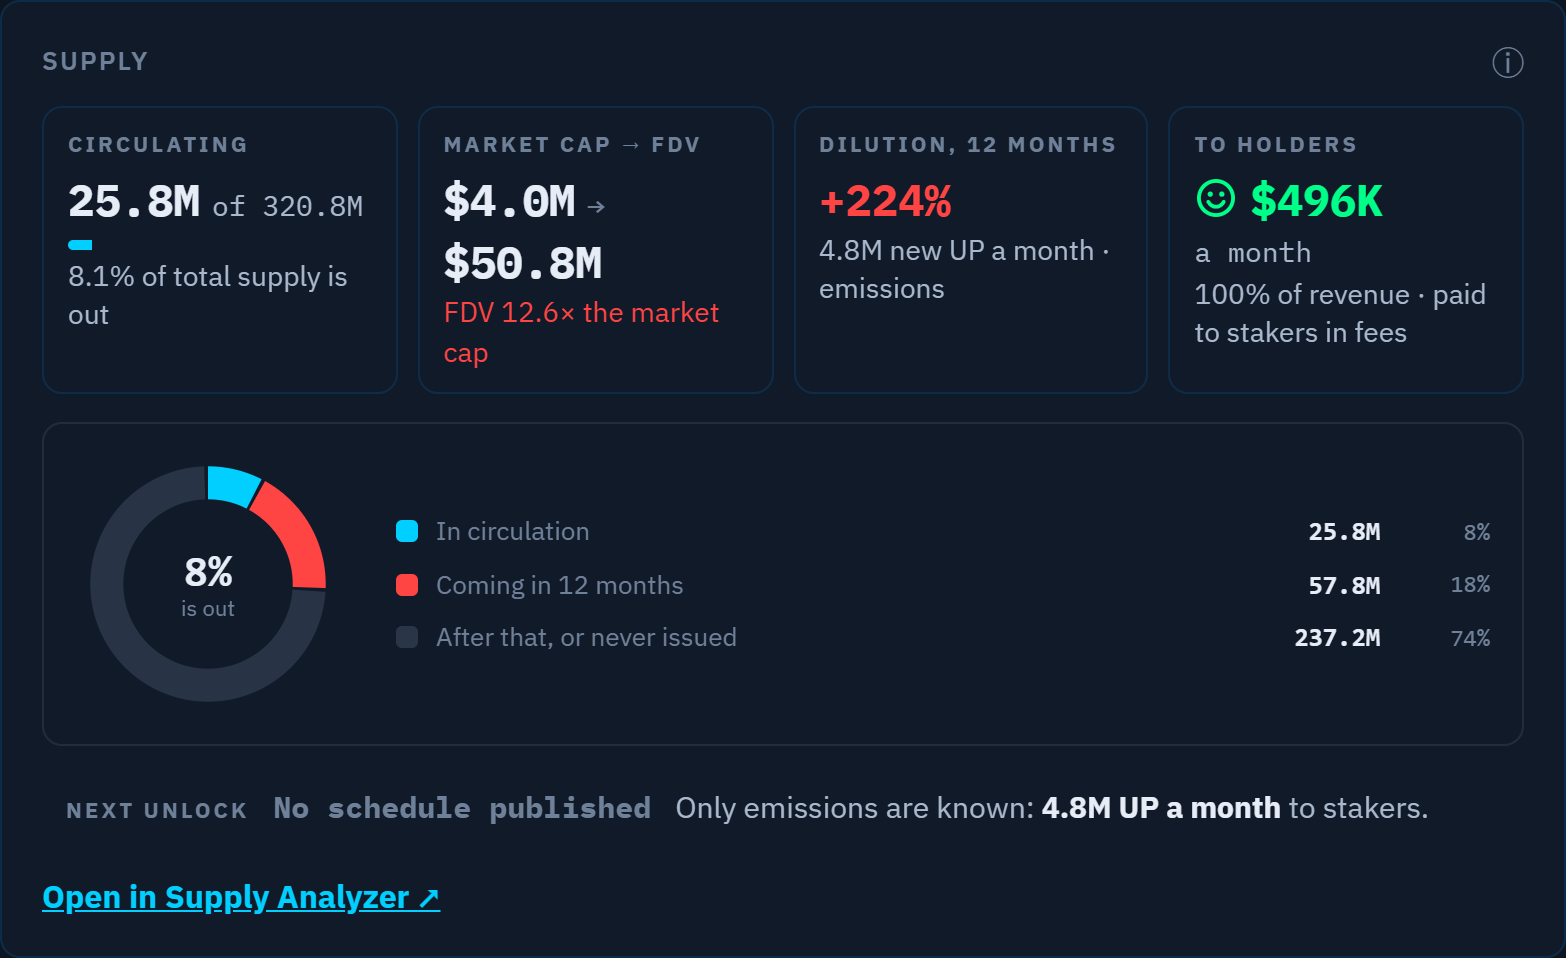
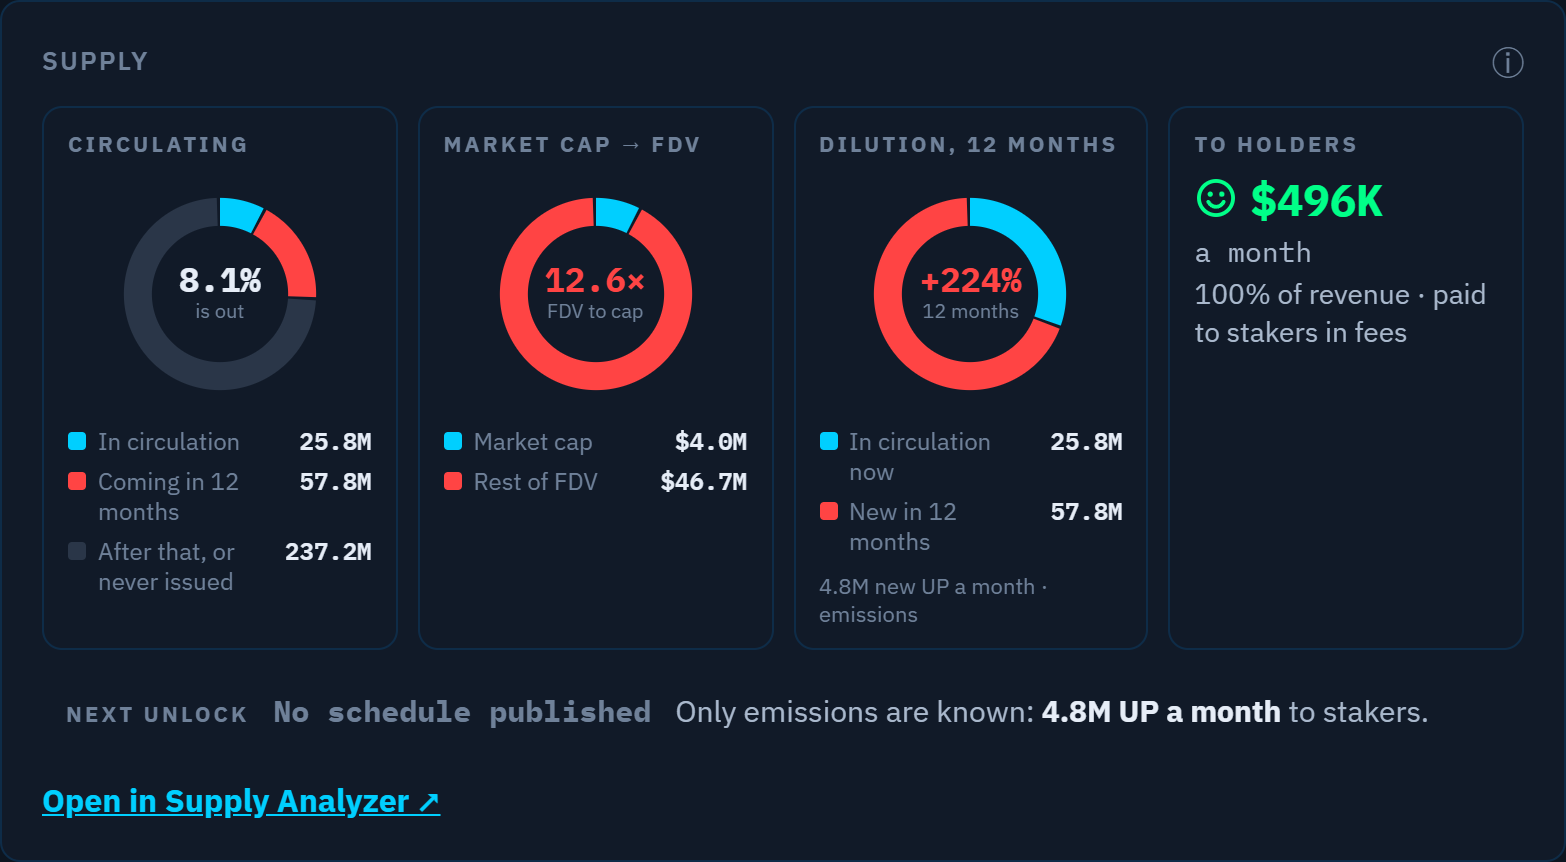
Supply Analyzer request: on the coin panel's Supply card, Circulating, Market cap to FDV and Dilution become three pies in place of their tiles, the operator's correction; the single donut under the tiles goes. Not filed.

diff --git a/outbox/supply-analyzer-sources/patch.js b/outbox/supply-analyzer-sources/patch.js
@@ -91,32 +91,73 @@
       if (soon > 0) parts.push({k: 'soon', label: 'Coming in 12 months', v: soon, c: 'var(--bad)'});
       if (rest - soon > 0) parts.push({k: 'later', label: 'After that, or never issued', v: rest - soon, c: 'var(--line, #2a3648)', ghost: true});
     } else {
-      parts.push({k: 'unknown', label: 'Not out yet, no schedule', v: rest, c: 'var(--muted)', dashed: true});
+      const ended = SA_MOCK.finished[((sp && sp.token) || {}).slug];
+      parts.push({k: 'unknown', label: ended ? 'Not out, schedule finished' : 'Not out yet, no schedule', v: rest, c: 'var(--muted)', dashed: true});
     }
     return {parts, out, whole};
   }
-  function supplyDonut(sp, sym) {
-    const {parts, out, whole, open} = donutParts(sp);
-    if (!parts.length) return '';
-    const total = parts.reduce((n, p) => n + p.v, 0), R = 46, W = 15, C = 2 * Math.PI * R;
+  // One pie in a tile: the ring, its figure in the centre, the legend under it. Each part is {label, v, c, shown?, dashed?}.
+  function pie(parts, center, sub, tone, note) {
+    const total = parts.reduce((n, p) => n + p.v, 0), R = 44, W = 15, C = 2 * Math.PI * R;
     let at = 0;
-    const arcs = parts.map(p => {
+    const arcs = !total ? `<circle cx="60" cy="60" r="${R}" fill="none" stroke="var(--muted)" stroke-width="${W}" style="stroke-dasharray:3 3;opacity:.55"/>` : parts.map(p => {
       const len = C * p.v / total, gap = parts.length > 1 ? Math.min(1.5, len / 3) : 0;
-      const a = `<circle cx="60" cy="60" r="${R}" fill="none" stroke="${p.c}" stroke-width="${W}" stroke-dasharray="${p.dashed ? '3 3' : (len - gap).toFixed(2) + ' ' + (C - len + gap).toFixed(2)}" stroke-dashoffset="${(-at).toFixed(2)}"${p.dashed ? ' class="sa-dashed" style="stroke-dasharray:3 3;opacity:.55"' : ''}${p.ghost ? ' style="opacity:.9"' : ''}/>`;
+      const dash = p.dashed ? 'style="stroke-dasharray:3 3;opacity:.55"' : `stroke-dasharray="${(len - gap).toFixed(2)} ${(C - len + gap).toFixed(2)}"`;
+      const arc = `<circle cx="60" cy="60" r="${R}" fill="none" stroke="${p.c}" stroke-width="${W}" ${dash} stroke-dashoffset="${(-at).toFixed(2)}"/>`;
       at += len;
-      return a;
+      return arc;
     }).join('');
-    const pctOut = whole ? Math.round(100 * out / whole) : null;
-    const center = pctOut === null ? `<b>${esc(saTok(out))}</b><span>${esc(sym || '')} out</span>` : `<b>${pctOut < 1 ? '<1' : pctOut}%</b><span>is out</span>`;
-    const rows = parts.map(p => `<li><i style="background:${p.c}${p.dashed ? ';opacity:.55' : ''}"></i><span>${esc(p.label)}</span><b>${esc(saTok(p.v))}</b><em>${(100 * p.v / total).toFixed(p.v / total < 0.01 ? 1 : 0)}%</em></li>`).join('');
-    return `<div class="sa-donut" id="saDonut"><div class="sa-ringbox"><svg viewBox="0 0 120 120" width="132" height="132" role="img" aria-label="Where the supply is">${arcs}</svg><div class="sa-center">${center}</div></div>
-      <ul class="sa-legend">${rows}</ul>${open ? `<p class="sa-note">No max supply: what is still to come cannot be drawn.</p>` : ''}${N(10)}</div>`;
+    const rows = parts.map(p => `<li><i style="background:${p.c}${p.dashed ? ';opacity:.55' : ''}"></i><span>${esc(p.label)}</span><b>${esc(p.shown || saTok(p.v))}</b></li>`).join('');
+    return `<div class="sa-ringbox"><svg viewBox="0 0 120 120" role="img">${arcs}</svg><div class="sa-center ${tone || ''}"><b>${center}</b>${sub ? `<span>${esc(sub)}</span>` : ''}</div></div><ul class="sa-legend">${rows}</ul>${note ? `<p class="sa-note">${esc(note)}</p>` : ''}`;
+  }
+  const FILL = {'v-bad': 'var(--bad)', 'v-good': 'var(--good)', 'v-caution': 'var(--band-blue)'};
+  function circPie(sp) {
+    const {parts, out, whole, open} = donutParts(sp), c = (sp.tiles || {}).circulating || {};
+    if (!parts.length) return pie([], 'n/a', '', 'v-na', 'No circulating supply on any feed we read.');
+    const pct = typeof c.pct === 'number' ? c.pct : (whole ? 100 * out / whole : null);
+    return pie(parts, pct === null ? esc(saTok(out)) : (pct >= 99.95 ? '100%' : pct.toFixed(1) + '%'), pct === null ? 'out' : 'is out', '', open ? 'No max supply: what is still to come cannot be drawn.' : '');
+  }
+  function fdvPie(sp) {
+    const f = (sp.tiles || {}).fdv;
+    if (!f || !f.market_cap_usd || !f.fdv_usd) return pie([], 'n/a', '', 'v-na', 'No market cap stated.');
+    const cap = Math.min(f.market_cap_usd, f.fdv_usd), cls = saFdvCls(f.x);
+    return pie([{label: 'Market cap', v: cap, c: 'var(--accent)', shown: saUsd(f.market_cap_usd)},
+      {label: 'Rest of FDV', v: Math.max(f.fdv_usd - cap, 0), c: FILL[cls] || 'var(--line, #2a3648)', shown: saUsd(f.fdv_usd - cap)}], f.x.toFixed(1) + '×', 'FDV to cap', cls);
+  }
+  function dilPie(sp, e) {
+    const d = saDil(sp), circ = ((sp.tiles || {}).circulating || {}).tokens, done = finished(e), drop = SA_MOCK.dropstab[e.slug];
+    const here = [{label: 'In circulation now', v: circ || 0, c: 'var(--accent)'}];
+    if (!d && done && done.none !== null && done.none !== undefined && Math.abs(done.none) === 0) {
+      return pie(here, '0%', '12 months', 'v-good', `The published schedule finished in ${done.when} and covered the whole supply.`);
+    }
+    if (!d) {
+      const say = done ? `The published schedule finished in ${done.when}.` + (done.none ? ` ${done.none}% of the supply never had one.` : '')
+        : drop ? 'Schedule found on DropsTab; the figure comes with the build.' : 'No schedule found on any source. Nothing is assumed.';
+      return pie([], 'n/a', '', 'v-na', say);
+    }
+    const cls = saDilCls(d.pct), fresh = d.new_tokens_12m || (circ ? circ * d.pct / 100 : 0), parts = here.slice();
+    if (fresh > 0) parts.push({label: 'New in 12 months', v: fresh, c: FILL[cls] || 'var(--bad)'});
+    return pie(parts, d.at_max ? '0%' : saColPct(d.pct), '12 months', cls, d.at_max ? 'Max supply is reached.' : saDilLine(sp, e.symbol));
   }
   const oldSupplyCard = supplyCard;
   supplyCard = function (e) {
     const html = oldSupplyCard(e), sp = supplyOf(e);
     if (!sp || !sp.tiles) return html;
-    return html.replace('<div class="sanext">', supplyDonut(sp, e.symbol) + '<div class="sanext">');
+    const box = document.createElement('div');
+    box.innerHTML = html;
+    const fill = (key, inner, mark) => {
+      const tile = box.querySelector(`.satile[data-k="${key}"]`);
+      if (!tile) return;
+      const head = tile.querySelector('.sk');
+      tile.innerHTML = '';
+      tile.appendChild(head);
+      tile.classList.add('sa-pie');
+      tile.insertAdjacentHTML('beforeend', inner + mark);
+    };
+    fill('circ', circPie(sp), N(10));
+    fill('fdv', fdvPie(sp), '');
+    fill('dil', dilPie(sp, e), '');
+    return box.innerHTML;
   };
 
   // ---- the box: where each one is. Ours only, it never goes in a picture for them
@@ -146,7 +187,7 @@
     [6, 'Column: Jupiter, schedule finished', () => inApps('jupiter')],
     [7, 'Column: where it looked', () => inApps(firstNone())],
     [8, 'Column: Lombard reads its schedule', () => inApps('lombard')],
-    [10, 'Supply card: the whole supply as a donut', () => { setView('start'); openPanel((APPS.find(a => a.slug === 'up') || {}).key); setTimeout(() => flash(document.querySelector('#panel #saDonut')), 1500); }],
+    [10, 'Supply card: three pies in place of the tiles', () => { setView('start'); openPanel((APPS.find(a => a.slug === 'up') || {}).key); setTimeout(() => flash(document.querySelector('#panel #supplyCard')), 1500); }],
   ];
   setTimeout(() => {
     const box = document.createElement('aside');

diff --git a/outbox/supply-analyzer-sources/patch.css b/outbox/supply-analyzer-sources/patch.css
@@ -4,19 +4,22 @@
 body.gt-clean .gt-n, body.gt-clean #gtTour { display: none !important; }
 .sa-ring { display: inline-block; width: 22px; height: 22px; border-radius: 50%; border: 1.5px dashed var(--muted, #7f93ad); box-sizing: border-box; vertical-align: middle; }
 .sa-src { display: block; margin-top: 4px; font-size: 12px; color: var(--muted); }
-.sa-donut { position: relative; display: flex; flex-wrap: wrap; align-items: center; gap: 12px 28px; margin: 14px 0 6px; padding: 14px 16px; border: 1px solid var(--line, rgba(255, 255, 255, .08)); border-radius: 10px; }
-.sa-ringbox { position: relative; width: 132px; height: 132px; flex: none; }
-.sa-ringbox svg { display: block; transform: rotate(-90deg); }
+.satile.sa-pie { position: relative; display: flex; flex-direction: column; }
+.sa-ringbox { position: relative; width: 112px; height: 112px; margin: 10px auto 10px; flex: none; }
+.sa-ringbox svg { display: block; width: 100%; height: 100%; transform: rotate(-90deg); }
 .sa-center { position: absolute; inset: 0; display: flex; flex-direction: column; align-items: center; justify-content: center; line-height: 1.15; pointer-events: none; }
-.sa-center b { font: 700 22px/1.1 var(--mono, monospace); color: var(--ink); }
-.sa-center span { font-size: 11px; color: var(--muted); }
-.sa-legend { flex: 1 1 240px; min-width: 0; list-style: none; margin: 0; padding: 0; display: grid; gap: 7px; font-size: 13px; }
-.sa-legend li { display: grid; grid-template-columns: 11px minmax(0, 1fr) auto 46px; align-items: center; gap: 9px; color: var(--muted); }
-.sa-legend i { width: 11px; height: 11px; border-radius: 3px; }
-.sa-legend b { font: 600 13px/1 var(--mono, monospace); color: var(--ink); }
-.sa-legend em { font: 500 12px/1 var(--mono, monospace); font-style: normal; text-align: right; color: var(--muted); }
-.sa-note { flex-basis: 100%; margin: 0; font-size: 12px; color: var(--muted); }
-.sa-donut > .gt-n { position: absolute; top: 8px; right: 8px; }
+.sa-center b { font: 700 17px/1.1 "IBM Plex Mono", var(--mono, monospace); color: var(--ink); }
+.sa-center span { font-size: 10px; color: var(--muted); }
+.sa-center.v-bad b { color: var(--bad); }
+.sa-center.v-good b { color: var(--good); }
+.sa-center.v-caution b { color: var(--band-blue); }
+.sa-center.v-na b { color: var(--muted); }
+.sa-legend { list-style: none; margin: 0; padding: 0; display: grid; gap: 5px; font-size: 12px; line-height: 1.25; }
+.sa-legend li { display: grid; grid-template-columns: 9px minmax(0, 1fr) auto; align-items: start; gap: 6px; color: var(--muted); }
+.sa-legend i { width: 9px; height: 9px; margin-top: 3px; border-radius: 2px; }
+.sa-legend b { font: 600 12px/1.25 "IBM Plex Mono", var(--mono, monospace); color: var(--ink); white-space: nowrap; }
+.satile.sa-pie p.sa-note { margin: 8px 0 0; font-size: 11px; line-height: 1.3; color: var(--muted); }
+.satile.sa-pie > .gt-n { position: absolute; top: 8px; right: 6px; }
 .gt-line { margin: 6px 0 12px; font-size: 13px; color: var(--muted); }
 .gt-line b { color: var(--ink); font-weight: 600; }
 #gtTour { position: fixed; right: 14px; bottom: 14px; z-index: 99999; width: 320px; max-height: 76vh; overflow: auto; background: #0a0e17; border: 1px solid rgba(0, 207, 255, .5);

diff --git a/outbox/supply-analyzer-sources/render.py b/outbox/supply-analyzer-sources/render.py
@@ -24,14 +24,12 @@ with sync_playwright() as p:
     print(t.evaluate("[document.getElementById('tbl-apps').scrollWidth, document.getElementById('tbl-apps').parentElement.clientWidth, [...document.querySelectorAll('#tbl-apps thead th')].map(h => h.innerText.replace(/\\s+/g, ' ').trim() + ' ' + Math.round(h.getBoundingClientRect().width)).join(' | ')]"))
 
     t.goto("http://127.0.0.1:8804/gem-screener/app?coin=up", wait_until="load", timeout=120000)
-    t.wait_for_selector("#panel #saDonut", timeout=90000)
+    t.wait_for_selector("#panel .sa-pie", timeout=90000)
     t.wait_for_timeout(1500)
     t.add_style_tag(content=".stickytop { position: static !important; }")
     t.evaluate("document.body.classList.add('gt-clean'); document.querySelector('#supplyCard').scrollIntoView({block: 'center'})")
     t.mouse.move(2, 2)
     t.wait_for_timeout(1000)
     t.locator("#supplyCard").screenshot(path=str(HERE / "picture-2-supply-card.png"))
-    for slug in ("bonk.fun", "syrup", "collector-crypt", "hyperliquid"):
-        pass
     b.close()
 print("rendered")
